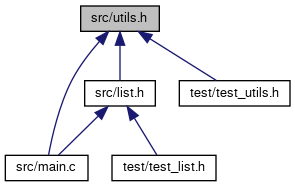
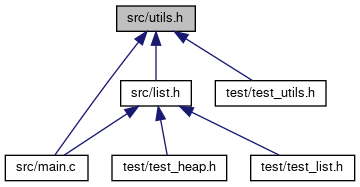
deploy: 56e5c4f768e57f28676735f6ec0093711edeb442

diff --git a/test__heap_8h_source.html b/test__heap_8h_source.html
@@ -1,0 +1,108 @@
+<!DOCTYPE html PUBLIC "-//W3C//DTD XHTML 1.0 Transitional//EN" "https://www.w3.org/TR/xhtml1/DTD/xhtml1-transitional.dtd">
+<html xmlns="http://www.w3.org/1999/xhtml">
+<head>
+<meta http-equiv="Content-Type" content="text/xhtml;charset=UTF-8"/>
+<meta http-equiv="X-UA-Compatible" content="IE=9"/>
+<meta name="generator" content="Doxygen 1.9.1"/>
+<meta name="viewport" content="width=device-width, initial-scale=1"/>
+<title>C Project Template: test/test_heap.h Source File</title>
+<link href="tabs.css" rel="stylesheet" type="text/css"/>
+<script type="text/javascript" src="jquery.js"></script>
+<script type="text/javascript" src="dynsections.js"></script>
+<link href="search/search.css" rel="stylesheet" type="text/css"/>
+<script type="text/javascript" src="search/searchdata.js"></script>
+<script type="text/javascript" src="search/search.js"></script>
+<link href="doxygen.css" rel="stylesheet" type="text/css" />
+</head>
+<body>
+<div id="top"><!-- do not remove this div, it is closed by doxygen! -->
+<div id="titlearea">
+<table cellspacing="0" cellpadding="0">
+ <tbody>
+ <tr style="height: 56px;">
+  <td id="projectalign" style="padding-left: 0.5em;">
+   <div id="projectname">C Project Template
+   </div>
+  </td>
+ </tr>
+ </tbody>
+</table>
+</div>
+<!-- end header part -->
+<!-- Generated by Doxygen 1.9.1 -->
+<script type="text/javascript">
+/* @license magnet:?xt=urn:btih:cf05388f2679ee054f2beb29a391d25f4e673ac3&amp;dn=gpl-2.0.txt GPL-v2 */
+var searchBox = new SearchBox("searchBox", "search",false,'Search','.html');
+/* @license-end */
+</script>
+<script type="text/javascript" src="menudata.js"></script>
+<script type="text/javascript" src="menu.js"></script>
+<script type="text/javascript">
+/* @license magnet:?xt=urn:btih:cf05388f2679ee054f2beb29a391d25f4e673ac3&amp;dn=gpl-2.0.txt GPL-v2 */
+$(function() {
+  initMenu('',true,false,'search.php','Search');
+  $(document).ready(function() { init_search(); });
+});
+/* @license-end */</script>
+<div id="main-nav"></div>
+<!-- window showing the filter options -->
+<div id="MSearchSelectWindow"
+     onmouseover="return searchBox.OnSearchSelectShow()"
+     onmouseout="return searchBox.OnSearchSelectHide()"
+     onkeydown="return searchBox.OnSearchSelectKey(event)">
+</div>
+
+<!-- iframe showing the search results (closed by default) -->
+<div id="MSearchResultsWindow">
+<iframe src="javascript:void(0)" frameborder="0" 
+        name="MSearchResults" id="MSearchResults">
+</iframe>
+</div>
+
+<div id="nav-path" class="navpath">
+  <ul>
+<li class="navelem"><a class="el" href="dir_13e138d54eb8818da29c3992edef070a.html">test</a></li>  </ul>
+</div>
+</div><!-- top -->
+<div class="header">
+  <div class="headertitle">
+<div class="title">test_heap.h</div>  </div>
+</div><!--header-->
+<div class="contents">
+<div class="fragment"><div class="line"><a name="l00001"></a><span class="lineno">    1</span>&#160;<span class="preprocessor">#ifndef TEST_HEAP_H</span></div>
+<div class="line"><a name="l00002"></a><span class="lineno">    2</span>&#160;<span class="preprocessor">#define TEST_HEAP_H</span></div>
+<div class="line"><a name="l00003"></a><span class="lineno">    3</span>&#160; </div>
+<div class="line"><a name="l00004"></a><span class="lineno">    4</span>&#160;<span class="preprocessor">#include &quot;<a class="code" href="list_8h.html">list.h</a>&quot;</span></div>
+<div class="line"><a name="l00005"></a><span class="lineno">    5</span>&#160;<span class="preprocessor">#include &quot;acutest.h&quot;</span></div>
+<div class="line"><a name="l00006"></a><span class="lineno">    6</span>&#160; </div>
+<div class="line"><a name="l00007"></a><span class="lineno">    7</span>&#160;<span class="keywordtype">void</span> test_heap(<span class="keywordtype">void</span>){</div>
+<div class="line"><a name="l00008"></a><span class="lineno">    8</span>&#160;    <a class="code" href="structpackData.html">packData</a> pd = <a class="code" href="list_8h.html#aa11f23d0e48c1d0788c6a8930a252b9c">init_packData</a>(100,100);</div>
+<div class="line"><a name="l00009"></a><span class="lineno">    9</span>&#160; </div>
+<div class="line"><a name="l00010"></a><span class="lineno">   10</span>&#160;    <span class="comment">//Heap insertion</span></div>
+<div class="line"><a name="l00011"></a><span class="lineno">   11</span>&#160;    <span class="keywordflow">for</span> (<span class="keywordtype">int</span> i=1;i&lt;40;i++){</div>
+<div class="line"><a name="l00012"></a><span class="lineno">   12</span>&#160;        pd.lines[0].heap = _insertHeap(pd.lines[0].heap, &amp;pd.packs[i]);</div>
+<div class="line"><a name="l00013"></a><span class="lineno">   13</span>&#160;    }</div>
+<div class="line"><a name="l00014"></a><span class="lineno">   14</span>&#160; </div>
+<div class="line"><a name="l00015"></a><span class="lineno">   15</span>&#160;    <span class="comment">//Heap extraction</span></div>
+<div class="line"><a name="l00016"></a><span class="lineno">   16</span>&#160;    <span class="keywordflow">for</span> (<span class="keywordtype">int</span> i=1;i&lt;40;i++){</div>
+<div class="line"><a name="l00017"></a><span class="lineno">   17</span>&#160;        _popMaxHeap(pd.lines[0].heap);</div>
+<div class="line"><a name="l00018"></a><span class="lineno">   18</span>&#160;    }</div>
+<div class="line"><a name="l00019"></a><span class="lineno">   19</span>&#160; </div>
+<div class="line"><a name="l00020"></a><span class="lineno">   20</span>&#160;    TEST_CHECK(pd.lines[0].heap == NULL);</div>
+<div class="line"><a name="l00021"></a><span class="lineno">   21</span>&#160; </div>
+<div class="line"><a name="l00022"></a><span class="lineno">   22</span>&#160;    kill_packData(pd);</div>
+<div class="line"><a name="l00023"></a><span class="lineno">   23</span>&#160;}</div>
+<div class="line"><a name="l00024"></a><span class="lineno">   24</span>&#160; </div>
+<div class="line"><a name="l00025"></a><span class="lineno">   25</span>&#160; </div>
+<div class="line"><a name="l00026"></a><span class="lineno">   26</span>&#160; </div>
+<div class="line"><a name="l00027"></a><span class="lineno">   27</span>&#160;<span class="preprocessor">#endif</span></div>
+<div class="ttc" id="alist_8h_html"><div class="ttname"><a href="list_8h.html">list.h</a></div></div>
+<div class="ttc" id="alist_8h_html_aa11f23d0e48c1d0788c6a8930a252b9c"><div class="ttname"><a href="list_8h.html#aa11f23d0e48c1d0788c6a8930a252b9c">init_packData</a></div><div class="ttdeci">packData init_packData(int n, int l)</div><div class="ttdoc">Initiate a package management problem.</div><div class="ttdef"><b>Definition:</b> list.c:3</div></div>
+<div class="ttc" id="astructpackData_html"><div class="ttname"><a href="structpackData.html">packData</a></div><div class="ttdef"><b>Definition:</b> list.h:48</div></div>
+</div><!-- fragment --></div><!-- contents -->
+<!-- start footer part -->
+<hr class="footer"/><address class="footer"><small>
+Generated by&#160;<a href="https://www.doxygen.org/index.html"><img class="footer" src="doxygen.svg" width="104" height="31" alt="doxygen"/></a> 1.9.1
+</small></address>
+</body>
+</html>

diff --git a/list_8h_source.html b/list_8h_source.html
@@ -159,9 +159,9 @@ $(function() {
 <div class="line"><a name="l00116"></a><span class="lineno">  116</span>&#160; </div>
 <div class="line"><a name="l00117"></a><span class="lineno">  117</span>&#160;<span class="preprocessor">#endif </span></div>
 <div class="ttc" id="alist_8h_html_a3586525e728a7be39766f22a4db66cb9"><div class="ttname"><a href="list_8h.html#a3586525e728a7be39766f22a4db66cb9">pack</a></div><div class="ttdeci">struct pack pack</div></div>
-<div class="ttc" id="alist_8h_html_a41622136ec076e314e00e9fbe9512c61"><div class="ttname"><a href="list_8h.html#a41622136ec076e314e00e9fbe9512c61">_popFirst</a></div><div class="ttdeci">int _popFirst(List *)</div><div class="ttdoc">Pop first item. Set popped item.avail (pack) to zero.</div><div class="ttdef"><b>Definition:</b> list.c:221</div></div>
-<div class="ttc" id="alist_8h_html_a7afb1b709ad6d00cd41ac19e8cd9e148"><div class="ttname"><a href="list_8h.html#a7afb1b709ad6d00cd41ac19e8cd9e148">_findNullLeave</a></div><div class="ttdeci">int _findNullLeave(hnode *node)</div><div class="ttdef"><b>Definition:</b> list.c:130</div></div>
-<div class="ttc" id="alist_8h_html_a97bf806736c5cf75cbc2b56814e66e2b"><div class="ttname"><a href="list_8h.html#a97bf806736c5cf75cbc2b56814e66e2b">_popLast</a></div><div class="ttdeci">int _popLast(List *)</div><div class="ttdoc">Similar to _popFirst .</div><div class="ttdef"><b>Definition:</b> list.c:244</div></div>
+<div class="ttc" id="alist_8h_html_a41622136ec076e314e00e9fbe9512c61"><div class="ttname"><a href="list_8h.html#a41622136ec076e314e00e9fbe9512c61">_popFirst</a></div><div class="ttdeci">int _popFirst(List *)</div><div class="ttdoc">Pop first item. Set popped item.avail (pack) to zero.</div><div class="ttdef"><b>Definition:</b> list.c:235</div></div>
+<div class="ttc" id="alist_8h_html_a7afb1b709ad6d00cd41ac19e8cd9e148"><div class="ttname"><a href="list_8h.html#a7afb1b709ad6d00cd41ac19e8cd9e148">_findNullLeave</a></div><div class="ttdeci">int _findNullLeave(hnode *node)</div><div class="ttdef"><b>Definition:</b> list.c:144</div></div>
+<div class="ttc" id="alist_8h_html_a97bf806736c5cf75cbc2b56814e66e2b"><div class="ttname"><a href="list_8h.html#a97bf806736c5cf75cbc2b56814e66e2b">_popLast</a></div><div class="ttdeci">int _popLast(List *)</div><div class="ttdoc">Similar to _popFirst .</div><div class="ttdef"><b>Definition:</b> list.c:258</div></div>
 <div class="ttc" id="alist_8h_html_aa11f23d0e48c1d0788c6a8930a252b9c"><div class="ttname"><a href="list_8h.html#aa11f23d0e48c1d0788c6a8930a252b9c">init_packData</a></div><div class="ttdeci">packData init_packData(int n, int l)</div><div class="ttdoc">Initiate a package management problem.</div><div class="ttdef"><b>Definition:</b> list.c:3</div></div>
 <div class="ttc" id="astructList_html"><div class="ttname"><a href="structList.html">List</a></div><div class="ttdef"><b>Definition:</b> list.h:30</div></div>
 <div class="ttc" id="astructhnode_html"><div class="ttname"><a href="structhnode.html">hnode</a></div><div class="ttdef"><b>Definition:</b> list.h:35</div></div>

diff --git a/test__list_8h_source.html b/test__list_8h_source.html
@@ -126,8 +126,8 @@ $(function() {
 <div class="line"><a name="l00055"></a><span class="lineno">   55</span>&#160; </div>
 <div class="line"><a name="l00056"></a><span class="lineno">   56</span>&#160;<span class="preprocessor">#endif</span></div>
 <div class="ttc" id="alist_8h_html"><div class="ttname"><a href="list_8h.html">list.h</a></div></div>
-<div class="ttc" id="alist_8h_html_a41622136ec076e314e00e9fbe9512c61"><div class="ttname"><a href="list_8h.html#a41622136ec076e314e00e9fbe9512c61">_popFirst</a></div><div class="ttdeci">int _popFirst(List *)</div><div class="ttdoc">Pop first item. Set popped item.avail (pack) to zero.</div><div class="ttdef"><b>Definition:</b> list.c:221</div></div>
-<div class="ttc" id="alist_8h_html_a97bf806736c5cf75cbc2b56814e66e2b"><div class="ttname"><a href="list_8h.html#a97bf806736c5cf75cbc2b56814e66e2b">_popLast</a></div><div class="ttdeci">int _popLast(List *)</div><div class="ttdoc">Similar to _popFirst .</div><div class="ttdef"><b>Definition:</b> list.c:244</div></div>
+<div class="ttc" id="alist_8h_html_a41622136ec076e314e00e9fbe9512c61"><div class="ttname"><a href="list_8h.html#a41622136ec076e314e00e9fbe9512c61">_popFirst</a></div><div class="ttdeci">int _popFirst(List *)</div><div class="ttdoc">Pop first item. Set popped item.avail (pack) to zero.</div><div class="ttdef"><b>Definition:</b> list.c:235</div></div>
+<div class="ttc" id="alist_8h_html_a97bf806736c5cf75cbc2b56814e66e2b"><div class="ttname"><a href="list_8h.html#a97bf806736c5cf75cbc2b56814e66e2b">_popLast</a></div><div class="ttdeci">int _popLast(List *)</div><div class="ttdoc">Similar to _popFirst .</div><div class="ttdef"><b>Definition:</b> list.c:258</div></div>
 <div class="ttc" id="alist_8h_html_aa11f23d0e48c1d0788c6a8930a252b9c"><div class="ttname"><a href="list_8h.html#aa11f23d0e48c1d0788c6a8930a252b9c">init_packData</a></div><div class="ttdeci">packData init_packData(int n, int l)</div><div class="ttdoc">Initiate a package management problem.</div><div class="ttdef"><b>Definition:</b> list.c:3</div></div>
 <div class="ttc" id="astructpackData_html"><div class="ttname"><a href="structpackData.html">packData</a></div><div class="ttdef"><b>Definition:</b> list.h:48</div></div>
 </div><!-- fragment --></div><!-- contents -->

diff --git a/files.html b/files.html
@@ -72,8 +72,9 @@ $(function() {
 <tr id="row_0_1_" class="even"><td class="entry"><span style="width:32px;display:inline-block;">&#160;</span><span class="icondoc"></span><a class="el" href="main_8c.html" target="_self">main.c</a></td><td class="desc"></td></tr>
 <tr id="row_0_2_"><td class="entry"><span style="width:32px;display:inline-block;">&#160;</span><a href="utils_8h_source.html"><span class="icondoc"></span></a><a class="el" href="utils_8h.html" target="_self">utils.h</a></td><td class="desc">General Utilities for C language </td></tr>
 <tr id="row_1_" class="even"><td class="entry"><span style="width:0px;display:inline-block;">&#160;</span><span id="arr_1_" class="arrow" onclick="toggleFolder('1_')">&#9660;</span><span id="img_1_" class="iconfopen" onclick="toggleFolder('1_')">&#160;</span><a class="el" href="dir_13e138d54eb8818da29c3992edef070a.html" target="_self">test</a></td><td class="desc"></td></tr>
-<tr id="row_1_0_"><td class="entry"><span style="width:32px;display:inline-block;">&#160;</span><a href="test__list_8h_source.html"><span class="icondoc"></span></a><b>test_list.h</b></td><td class="desc"></td></tr>
-<tr id="row_1_1_" class="even"><td class="entry"><span style="width:32px;display:inline-block;">&#160;</span><a href="test__utils_8h_source.html"><span class="icondoc"></span></a><b>test_utils.h</b></td><td class="desc"></td></tr>
+<tr id="row_1_0_"><td class="entry"><span style="width:32px;display:inline-block;">&#160;</span><a href="test__heap_8h_source.html"><span class="icondoc"></span></a><b>test_heap.h</b></td><td class="desc"></td></tr>
+<tr id="row_1_1_" class="even"><td class="entry"><span style="width:32px;display:inline-block;">&#160;</span><a href="test__list_8h_source.html"><span class="icondoc"></span></a><b>test_list.h</b></td><td class="desc"></td></tr>
+<tr id="row_1_2_"><td class="entry"><span style="width:32px;display:inline-block;">&#160;</span><a href="test__utils_8h_source.html"><span class="icondoc"></span></a><b>test_utils.h</b></td><td class="desc"></td></tr>
 </table>
 </div><!-- directory -->
 </div><!-- contents -->

diff --git a/test__utils_8h_source.html b/test__utils_8h_source.html
@@ -77,11 +77,13 @@ $(function() {
 <div class="line"><a name="l00006"></a><span class="lineno">    6</span>&#160; </div>
 <div class="line"><a name="l00007"></a><span class="lineno">    7</span>&#160;<span class="keywordtype">void</span> test_utils(<span class="keywordtype">void</span>)</div>
 <div class="line"><a name="l00008"></a><span class="lineno">    8</span>&#160;{</div>
-<div class="line"><a name="l00009"></a><span class="lineno">    9</span>&#160;   </div>
-<div class="line"><a name="l00010"></a><span class="lineno">   10</span>&#160;}</div>
-<div class="line"><a name="l00011"></a><span class="lineno">   11</span>&#160; </div>
-<div class="line"><a name="l00012"></a><span class="lineno">   12</span>&#160; </div>
-<div class="line"><a name="l00013"></a><span class="lineno">   13</span>&#160;<span class="preprocessor">#endif</span></div>
+<div class="line"><a name="l00009"></a><span class="lineno">    9</span>&#160;   TEST_CHECK(argMin(-1212,3) == 0);</div>
+<div class="line"><a name="l00010"></a><span class="lineno">   10</span>&#160;   TEST_CHECK(argMin(3, -1212) == 1);</div>
+<div class="line"><a name="l00011"></a><span class="lineno">   11</span>&#160;   TEST_CHECK(argMin(-1212,-1212) == 1);</div>
+<div class="line"><a name="l00012"></a><span class="lineno">   12</span>&#160;}</div>
+<div class="line"><a name="l00013"></a><span class="lineno">   13</span>&#160; </div>
+<div class="line"><a name="l00014"></a><span class="lineno">   14</span>&#160; </div>
+<div class="line"><a name="l00015"></a><span class="lineno">   15</span>&#160;<span class="preprocessor">#endif</span></div>
 <div class="ttc" id="autils_8h_html"><div class="ttname"><a href="utils_8h.html">utils.h</a></div><div class="ttdoc">General Utilities for C language.</div></div>
 </div><!-- fragment --></div><!-- contents -->
 <!-- start footer part -->

diff --git a/dir_000001_000000.html b/dir_000001_000000.html
@@ -65,7 +65,7 @@ $(function() {
 </div>
 </div><!-- top -->
 <div class="contents">
-<h3>test &rarr; src Relation</h3><table class="dirtab"><tr class="dirtab"><th class="dirtab">File in test</th><th class="dirtab">Includes file in src</th></tr><tr class="dirtab"><td class="dirtab"><b>test_list.h</b></td><td class="dirtab"><a class="el" href="list_8h.html">list.h</a></td></tr><tr class="dirtab"><td class="dirtab"><b>test_utils.h</b></td><td class="dirtab"><a class="el" href="utils_8h.html">utils.h</a></td></tr></table></div><!-- contents -->
+<h3>test &rarr; src Relation</h3><table class="dirtab"><tr class="dirtab"><th class="dirtab">File in test</th><th class="dirtab">Includes file in src</th></tr><tr class="dirtab"><td class="dirtab"><b>test_heap.h</b></td><td class="dirtab"><a class="el" href="list_8h.html">list.h</a></td></tr><tr class="dirtab"><td class="dirtab"><b>test_list.h</b></td><td class="dirtab"><a class="el" href="list_8h.html">list.h</a></td></tr><tr class="dirtab"><td class="dirtab"><b>test_utils.h</b></td><td class="dirtab"><a class="el" href="utils_8h.html">utils.h</a></td></tr></table></div><!-- contents -->
 <!-- start footer part -->
 <hr class="footer"/><address class="footer"><small>
 Generated by&#160;<a href="https://www.doxygen.org/index.html"><img class="footer" src="doxygen.svg" width="104" height="31" alt="doxygen"/></a> 1.9.1

diff --git a/utils_8h.html b/utils_8h.html
@@ -79,11 +79,12 @@ This graph shows which files directly or indirectly include this file:</div>
 <div class="dyncontent">
 <div class="center"><img src="utils_8h__dep__incl.png" border="0" usemap="#asrc_2utils_8hdep" alt=""/></div>
 <map name="asrc_2utils_8hdep" id="asrc_2utils_8hdep">
-<area shape="rect" title="General Utilities for C language." alt="" coords="81,5,159,32"/>
-<area shape="rect" href="list_8h.html" title=" " alt="" coords="85,80,155,107"/>
+<area shape="rect" title="General Utilities for C language." alt="" coords="117,5,195,32"/>
+<area shape="rect" href="list_8h.html" title=" " alt="" coords="121,80,191,107"/>
 <area shape="rect" href="main_8c.html" title=" " alt="" coords="5,155,88,181"/>
-<area shape="rect" href="test__utils_8h_source.html" title=" " alt="" coords="179,80,290,107"/>
-<area shape="rect" href="test__list_8h_source.html" title=" " alt="" coords="112,155,216,181"/>
+<area shape="rect" href="test__utils_8h_source.html" title=" " alt="" coords="215,80,326,107"/>
+<area shape="rect" href="test__heap_8h_source.html" title=" " alt="" coords="112,155,227,181"/>
+<area shape="rect" href="test__list_8h_source.html" title=" " alt="" coords="251,155,355,181"/>
 </map>
 </div>
 </div>

diff --git a/list_8h.html b/list_8h.html
@@ -95,9 +95,10 @@ This graph shows which files directly or indirectly include this file:</div>
 <div class="dyncontent">
 <div class="center"><img src="list_8h__dep__incl.png" border="0" usemap="#asrc_2list_8hdep" alt=""/></div>
 <map name="asrc_2list_8hdep" id="asrc_2list_8hdep">
-<area shape="rect" title=" " alt="" coords="70,5,141,32"/>
+<area shape="rect" title=" " alt="" coords="134,5,205,32"/>
 <area shape="rect" href="main_8c.html" title=" " alt="" coords="5,80,88,107"/>
-<area shape="rect" href="test__list_8h_source.html" title=" " alt="" coords="112,80,216,107"/>
+<area shape="rect" href="test__heap_8h_source.html" title=" " alt="" coords="112,80,227,107"/>
+<area shape="rect" href="test__list_8h_source.html" title=" " alt="" coords="251,80,355,107"/>
 </map>
 </div>
 </div>

diff --git a/dir_13e138d54eb8818da29c3992edef070a.html b/dir_13e138d54eb8818da29c3992edef070a.html
@@ -76,7 +76,7 @@ Directory dependency graph for test:</div>
 <map name="adir__13e138d54eb8818da29c3992edef070a__dep" id="adir__13e138d54eb8818da29c3992edef070a__dep">
 <area shape="rect" href="dir_13e138d54eb8818da29c3992edef070a.html" title="test" alt="" coords="5,5,77,53"/>
 <area shape="rect" href="dir_68267d1309a1af8e8297ef4c3efbcdba.html" title="src" alt="" coords="5,101,77,149"/>
-<area shape="rect" href="dir_000001_000000.html" title="2" alt="" coords="46,76,54,90"/>
+<area shape="rect" href="dir_000001_000000.html" title="3" alt="" coords="46,76,54,90"/>
 </map>
 </div>
 </div><!-- contents -->
